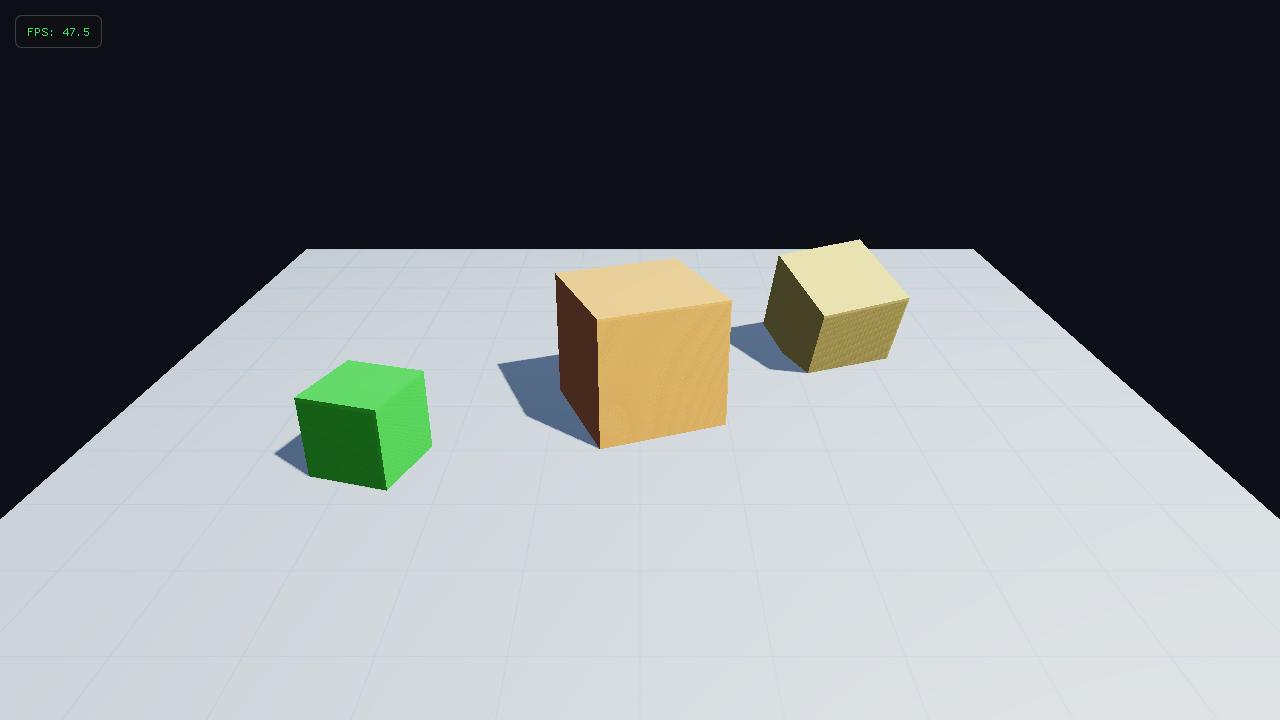
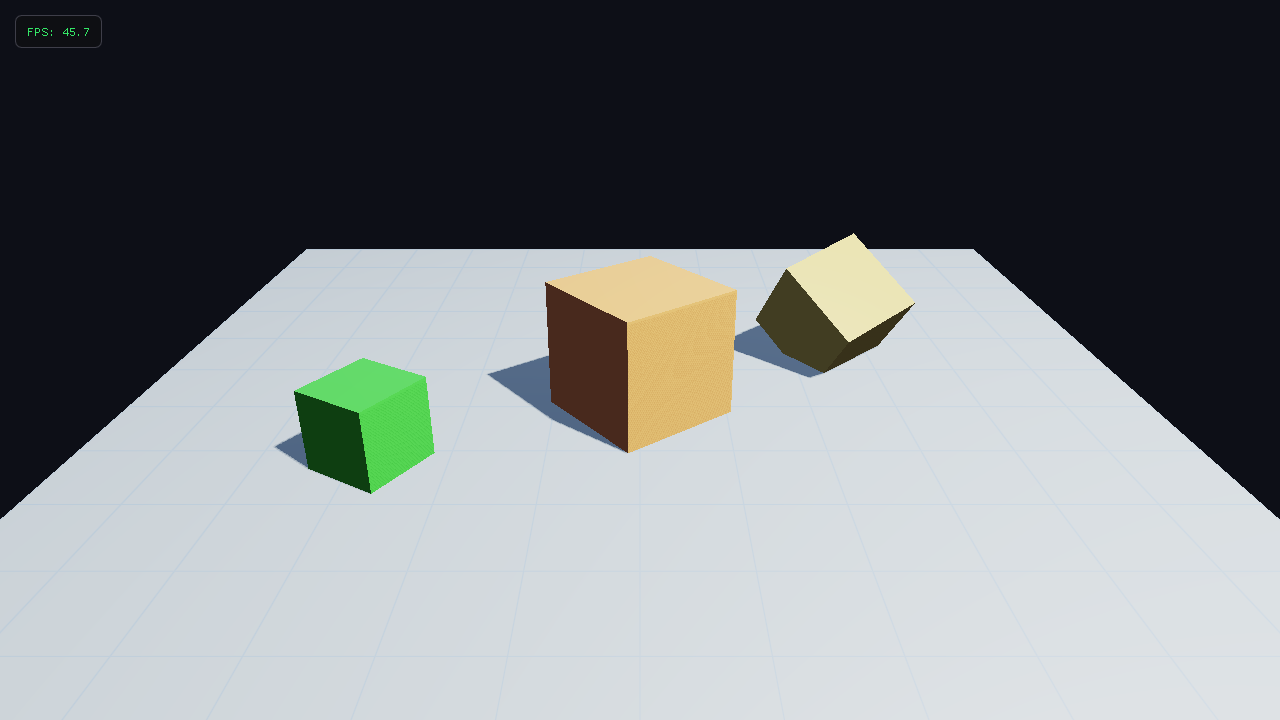
feat: C++ 3D Game Engine (Release Alpha 1) with platform and minimal FPS UI
- Implemented C++17 3D Game Engine using OpenGL 3.3 Core Profile, GLFW3, GLAD, GLM, and Dear ImGui.
- Added procedural 3D platform mesh with anti-aliased grid shader and material primitives (Emerald, Gold, Vibrant Orange, Slate Platform).
- Implemented directional depth shadow map (2048x2048 FBO) with 16-sample PCF soft shadows, Blinn-Phong lighting, and ACES tone mapping.
- Added smooth WASD/EQ perspective 3D camera controls.
- Implemented minimal Dear ImGui UI overlay showing strictly the real-time FPS counter top-left.
- Added CMake FetchContent build pipeline and cross-platform run.sh / run.bat scripts with auto-detection for MSYS2/MinGW environments.
- Updated README documentation for Alpha 1 release.

diff --git a/README.md b/README.md
@@ -1,100 +1,87 @@
-# Aengine-3D - C++ 3D Game Engine
+# Aengine 3D Game Engine (Release: Alpha 1)
 
-A modern, lightweight 3D Game Engine written in C++17 using OpenGL, GLFW, GLM, GLAD, and Dear ImGui.
+A modern, high-performance C++ 3D Game Engine built with OpenGL 3.3 Core Profile, GLFW3, GLM, GLAD, and Dear ImGui. Designed for 3D platform environments, lightweight real-time graphics, and minimal overhead.
 
 ![Engine Screenshot](screenshot.png)
 
 ---
 
-## Features
+## Key Features
 
-- **Modern 3D Graphics Pipeline**: OpenGL 3.3 Core Profile shader-based rendering with Blinn-Phong lighting, ACES tone mapping, and depth testing.
-- **Dynamic Shadow Mapping**: Two-pass directional shadow mapping with 2048x2048 depth maps and Percentage-Closer Filtering (PCF) soft shadows.
-- **Material Subsystem**: Material definitions supporting ambient, diffuse, specular, and shininess properties (Emerald, Gold, Bronze, Slate Platform, etc.).
-- **3D Platform Scene**: Procedurally generated 3D platform with anti-aliased dynamic grid shading and interactive illuminated 3D objects casting soft shadows.
-- **Camera Subsystem**: 3D perspective camera with view/projection matrix generation and keyboard/mouse movement controls.
-- **Minimal User Interface**: Simple ImGui overlay displaying an FPS counter and nothing else.
-- **Zero External DLL Setup**: Dependencies (GLFW, GLM, glad, ImGui) are automatically downloaded and statically compiled by CMake on first build (`FetchContent`).
-- **Clean Architecture**: Modular C++ design separating Windowing, Camera, Shaders, ShadowMap, Geometry Meshes, Renderer, and UI.
-- **One-Click Launch Scripts**: Convenient `run.sh` and `run.bat` scripts to build and run automatically.
-- **Offscreen Verification Support**: Command-line support for offscreen headless rendering and frame screenshot capture.
+- **Release Version**: Alpha 1
+- **Platform Scene**: Procedural 3D platform with anti-aliased dynamic grid lines and interactive material-lit 3D primitives (Emerald, Gold, Vibrant Orange, Slate Platform).
+- **Minimal FPS UI**: Clean, non-intrusive Dear ImGui overlay displaying real-time frames per second (FPS) at top-left.
+- **Lighting & Shadows**:
+  - Blinn-Phong specular lighting and directional sun positioning.
+  - Two-pass directional depth shadow map (2048x2048 FBO) with 16-sample Percentage-Closer Filtering (PCF) soft shadows.
+  - ACES filmic tone mapping and 2.2 gamma correction in GLSL shaders.
+- **Camera Navigation**: Smooth 3D perspective camera with keyboard navigation (`WASD` for planar movement, `E`/`Q` for elevation).
+- **Zero-Dependency Automated Build**:
+  - Uses CMake `FetchContent` to download and statically link GLFW, GLM, and Dear ImGui automatically on first configure.
+  - Cross-platform support for Windows (MSVC / MinGW) and Linux / macOS.
+  - Auto-detection for MSYS2/MinGW PATH setup in `run.bat` to eliminate runtime DLL entry point errors.
 
 ---
 
 ## Directory Structure
 
 ```text
-├── CMakeLists.txt        # CMake build configuration (auto-fetches GLFW & GLM)
-├── README.md             # Documentation
-├── run.sh                # Linux / macOS build and run script
-├── run.bat               # Windows build and run script
-├── shaders/              # GLSL shader files
-│   ├── default.vert      # Vertex shader (positions, normals, shadow light-space matrix)
-│   ├── default.frag      # Fragment shader (Blinn-Phong lighting, ACES tone mapping, soft shadows)
-│   ├── shadow.vert       # Shadow pass vertex shader
-│   └── shadow.frag       # Shadow pass fragment shader
-├── src/
-│   ├── main.cpp          # Entry point
-│   ├── core/             # Engine core systems (Window, Camera, Engine game loop)
-│   ├── renderer/         # Graphics systems (Shader, Mesh, Material, ShadowMap, Renderer)
-│   └── ui/               # User interface overlay (Dear ImGui)
-└── vendor/               # Embedded libraries (Dear ImGui, glad)
+Aengine3D/
+├── CMakeLists.txt          # Root CMake build configuration
+├── README.md               # Documentation and usage guide
+├── run.bat                 # One-click Windows auto-detect, build & run script
+├── run.sh                  # One-click Linux/macOS auto-build & run script
+├── screenshot.png          # Visual preview render of Alpha 1 release
+├── shaders/                # GLSL shader source code
+│   ├── default.vert        # Main scene vertex shader
+│   ├── default.frag        # Blinn-Phong & PCF shadow fragment shader
+│   ├── shadow.vert         # Shadow pass vertex shader
+│   └── shadow.frag         # Shadow depth fragment shader
+├── src/                    # C++ Engine Core Source Code
+│   ├── main.cpp            # Entry point
+│   ├── core/               # Window, Camera, Engine game loop
+│   ├── renderer/           # Shader, Mesh, Material, ShadowMap, Renderer
+│   └── ui/                 # Dear ImGui minimal FPS UI overlay
+└── vendor/                 # GLAD GL loader and STB image headers
 ```
 
 ---
 
-## Quick Start (Run Scripts)
+## Quick Start (Build & Run)
 
-All dependencies are **automatically fetched and compiled statically by CMake**. You don't need to manually install or copy external DLLs!
+### Windows (One-Click)
+Double-click `run.bat` or run in Command Prompt:
+```cmd
+run.bat
+```
+*`run.bat` automatically checks for CMake, detects MSYS2/MinGW environments, configures, compiles `build/Release/Aengine3D.exe`, and launches the engine.*
 
-### Linux / macOS
-
+### Linux / macOS (One-Click)
+Make `run.sh` executable and launch:
 ```bash
 chmod +x run.sh
 ./run.sh
 ```
 
-### Windows
+---
 
-```cmd
-run.bat
-```
+## Controls
+
+| Key | Action |
+| --- | --- |
+| `W` | Move camera forward |
+| `S` | Move camera backward |
+| `A` | Strafe camera left |
+| `D` | Strafe camera right |
+| `E` | Elevate camera up |
+| `Q` | Lower camera down |
+| `ESC` | Exit engine |
 
 ---
 
-## Manual Building & Running
+## Offscreen Render / Headless Screenshot Mode
 
-If you prefer using CMake directly:
-
+To generate an offscreen render frame and exit (useful for testing or CI pipelines):
 ```bash
-# Configure CMake (downloads GLFW and GLM automatically on first run)
-cmake -B build
-
-# Build the executable statically
-cmake --build build --config Release
-
-# Run the engine
-./build/Aengine3D
+./build/Aengine3D --screenshot output.png
 ```
-
----
-
-## Controls & Usage
-
-- **W / A / S / D**: Move camera horizontally (forward, left, backward, right)
-- **E / Q**: Move camera vertically (up / down)
-- **Esc**: Exit the engine application
-
-### Offscreen / Headless Mode & Screenshots
-
-To run the engine in a headless environment (or capture an automated screenshot):
-
-```bash
-LIBGL_ALWAYS_SOFTWARE=1 xvfb-run -a ./run.sh --screenshot screenshot.png
-```
-
----
-
-## License
-
-This project is open-source.
